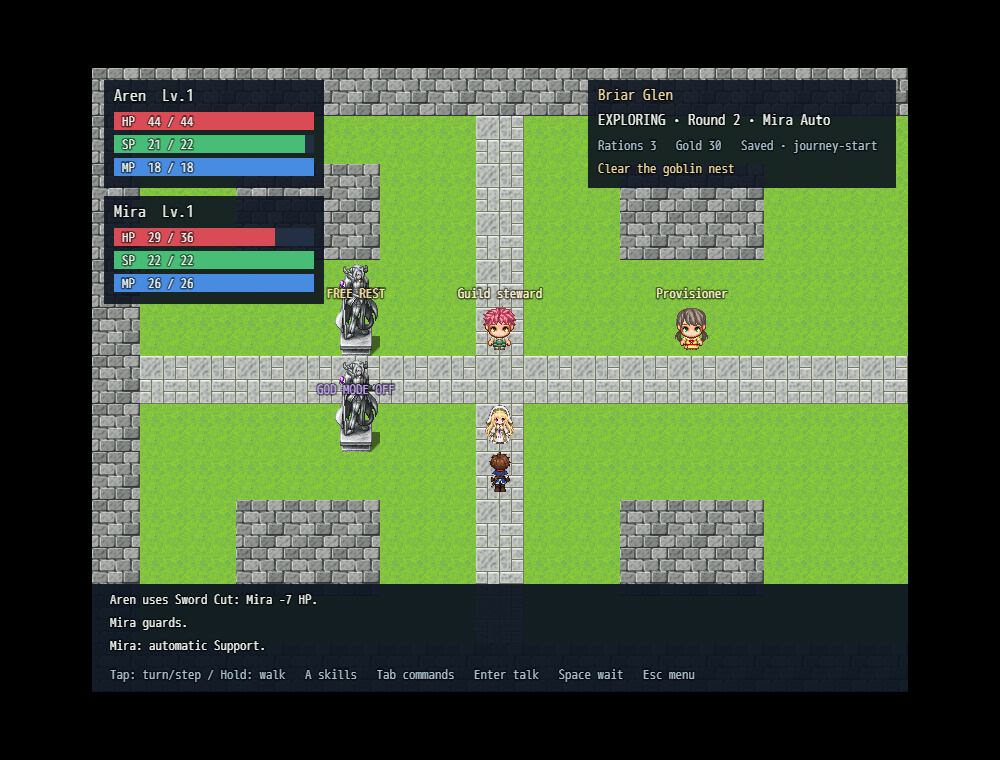
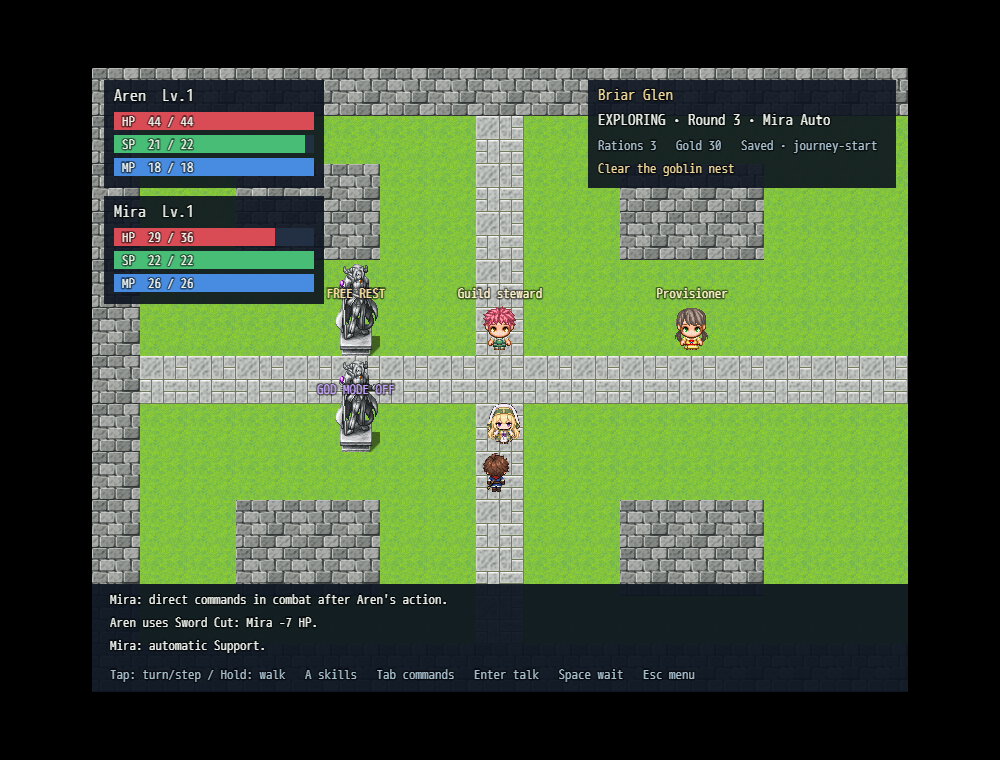
Restrict companion commands to combat and redraw walking sprites

Changed region(s): [[0.093, 0.7868, 0.372, 0.8474], [0.465, 0.5145, 0.527, 0.6658], [0.403, 0.7868, 0.434, 0.8171]]

diff --git a/src/js/plugins/FirstJourney.js b/src/js/plugins/FirstJourney.js
@@ -17,7 +17,7 @@
     DataManager.setupNewGame = function() {
         existingSetup.call(this);
         $gameSystem._firstJourney = R.create();
-        $gamePlayer.setImage("$ArenJourney-v1", 0);
+        $gamePlayer.setImage("$ArenJourney-v2", 0);
         $gamePlayer.followers().hide();
     };
     // Use a dedicated save namespace; existing Project1 saves are untouched.
@@ -150,7 +150,7 @@
         if (this._journeyPendingAction) {
             const arenAction = this._journeyPendingAction; this._journeyPendingAction = null;
             R.submit(s, arenAction, action, true);
-        } else if (s.direct && s.mira.hp > 0) {
+        } else if (s.combat && s.direct && s.mira.hp > 0) {
             this._journeyPendingAction = action; this.miraCommandMenu();
         } else R.submit(s, action, null, true);
         this.syncJourney(); return true;
@@ -205,7 +205,7 @@
             { label: "Skill journal [K]", run: () => this.journal() },
             { label: "Potions [I]", run: () => this.items() },
             { label: "Mira behavior [C]", run: () => this.behavior() },
-            { label: "Mira: " + (state().direct ? "Direct" : "Auto") + " [Tab]", run: () => { this.closeJourneyChoices(); this.toggleMiraCommands(); } },
+            { label: "Mira combat: " + (state().direct ? "Direct" : "Auto") + " [Tab]", run: () => { this.closeJourneyChoices(); this.toggleMiraCommands(); } },
             { label: "Save", run: () => { this.closeJourneyChoices(); save("manual", 1); } },
             { label: "Load", run: () => { this.closeJourneyChoices(); SceneManager.push(Scene_Load); } },
             { label: "Controls and rules", run: () => { this.closeJourneyChoices(); this.say([
@@ -219,7 +219,7 @@
     };
     Scene_Map.prototype.toggleMiraCommands = function() {
         state().direct = !state().direct;
-        R.log(state(), "Mira: " + (state().direct ? "direct commands after Aren's action." : "automatic " + state().mode + "."));
+        R.log(state(), "Mira: " + (state().direct ? "direct commands in combat after Aren's action." : "automatic " + state().mode + "."));
     };
     Scene_Map.prototype.interactJourney = function() {
         const s = state(), result = R.interact(s);
@@ -258,7 +258,7 @@
             b.fillRect(Graphics.width - 320, 12, 308, 108, "rgba(12,20,32,0.9)");
             b.fontSize = 15;
             text(R.maps[s.mapId].name, Graphics.width - 310, 15, 290, "#f0d79b");
-            text((s.round ? "RESOLVING" : s.combat ? "COMBAT" : "EXPLORING") + " • Round " + s.turn + " • Mira " + (s.direct ? "Direct" : "Auto"), Graphics.width - 310, 40, 290);
+            text((s.round ? "RESOLVING" : s.combat ? "COMBAT" : "EXPLORING") + " • Round " + s.turn + " • Mira " + (s.combat && s.direct ? "Direct" : "Auto"), Graphics.width - 310, 40, 290);
             b.fontSize = 13;
             text("Rations " + s.inventory.ration + "   Gold " + s.gold + "   " + saveStatus, Graphics.width - 310, 65, 290, "#a9c1cf");
             text(s.quest === "return" ? "Return to the guild" : s.quest === "complete" ? "First test complete" : "Clear the goblin nest", Graphics.width - 310, 88, 290, "#f0d79b");

diff --git a/Addons/FirstJourneyArt/Overworld-sprites-v2.md b/Addons/FirstJourneyArt/Overworld-sprites-v2.md
@@ -1,0 +1,17 @@
+# Overworld sprites v2
+
+Generated with the built-in imagegen tool on 2026-09-19. New artwork based on project portraits; People1.png (RPG Maker MZ RTP, subject to the project's MZ license) provided proportions/style reference. These assets are for this RPG Maker project. No shared assets/ originals were modified. Earlier v1 sheets remain preserved.
+
+References: `src/img/pictures/ArenPortrait-v4.png`, `src/img/pictures/MiraPortrait.png`, `src/img/characters/People1.png`.
+
+Generated sources: `Aren-walk-source-v2.png`, `Mira-walk-source-v2.png` in this directory. Original generation files: `exec-e515e53c-98b4-4bc3-befa-45d128a8faa4.png` and `exec-fa4aa023-5131-4073-972c-f7eeabc381f4.png` under the local Codex generated_images task directory.
+
+Runtime: `src/img/characters/$ArenJourney-v2.png` and `$MiraJourney-v2.png`. Mechanical processing with `node tools/pack-first-journey-sprites.cjs v2`: crop transparent frame padding, uniformly nearest-neighbor resize, align feet in 48px cells; preserve alpha. Atlas is 144×192, three walking frames by four directions (down, left, right, up). Head occupies approximately 60% of the character height, with a compact body matching the map NPC proportions.
+
+## Aren prompt
+
+Use case: stylized-concept. Create a NEW RPG Maker MZ walking sprite atlas of Aren. Image 1 is character identity/outfit reference ONLY; image 2 is the exact intended pixel-art proportions/style reference. Match the People1 villagers: huge round head about 60% of total figure height, tiny squat body, short stubby limbs, about 1.7 heads tall. Do NOT use realistically proportioned portrait anatomy. Brown tousled hair, blue tunic, red scarf, leather belt, brown boots, sheathed longsword at his anatomical left hip behind his body. Crisp simple pixel art readable at 48x48 pixels with limited shaded colors, no fine painterly detail. EXACTLY 12 complete figures, arranged 3 columns and 4 evenly spaced rows: row1 faces DOWN toward viewer, row2 faces LEFT, row3 faces RIGHT, row4 faces UP away from viewer. Each row columns walking left foot, idle, walking right foot. Consistent large head and short body across all frames. Entire figure fits each cell with empty margins. Transparent RGBA background, no shadow, floor, grid, labels, or extra figures. Portrait format 3:4 atlas.
+
+## Mira prompt
+
+Use case: stylized-concept. Create a NEW RPG Maker MZ walking sprite atlas of Mira. Image 1 is character identity/outfit reference ONLY; image 2 is the intended pixel-art proportions/style reference. Match People1 villagers: huge round head about 60% of total figure height, tiny squat body, short stubby limbs, about 1.7 heads tall. Do NOT use realistically proportioned portrait anatomy. Blonde hair, purple eyes, white priestess veil with sage green/gold trim, white and sage green robes, gold stole, purple bow, gold star pendant, tiny brown shoes. Crisp simple pixel art readable at 48x48 pixels with limited shaded colors, no fine painterly detail. EXACTLY 12 complete figures arranged 3 columns and 4 evenly spaced rows: row1 faces DOWN toward viewer, row2 faces LEFT, row3 faces RIGHT, row4 faces UP away from viewer. Each row columns walking left foot, idle, walking right foot. Consistent large head and short body across all frames. Entire figure fits each cell with empty margins. Transparent RGBA background, no shadow, floor, grid, labels, or extra figures. Portrait format 3:4 atlas.

diff --git a/src/FIRST_JOURNEY.md b/src/FIRST_JOURNEY.md
@@ -51,9 +51,12 @@ floating damage/healing numbers for both party and enemy actions.
 Walls and interactable objects block movement, but never block turning. Mira
 steps into Aren's previous tile when he walks; her move uses her action for that
 turn. She acts according to her behavior setting when Aren attacks or waits.
+Outside combat, only Aren receives player commands; Mira acts automatically.
+Tab retains the direct-command preference for future combat encounters.
+
 Guard still holds position during combat. Companions are passable: walking into
 one swaps them into the tile you vacated. Turn to face Mira and press Enter
-for contextual conversation. Aren always leads movement. In direct mode,
+for contextual conversation. Aren always leads movement. In combat with direct mode enabled,
 choose Aren's action first, then Mira's skill, guard, follow or wait action.
 Neither action executes until both are chosen. Canceling Mira's command menu
 cancels the whole round without spending resources or advancing time.
@@ -89,7 +92,7 @@ Mira's **Support** mode heals allies below 65% HP, then attacks while retaining
 some MP. **Attack** prioritizes Light Lance. **Guard** holds position, heals
 when possible, and reduces the next incoming hit. **Follow** spends no
 resources. **Conserve** follows and heals but does not cast offensive magic.
-In direct mode, Aren remains the leader and Mira receives a command after each
+In combat with direct mode enabled, Aren remains the leader and Mira receives a command after each
 Aren action. If Aren falls, choose Wait to let Mira act; command her to revive
 him when available. If Mira falls, her command step is skipped.
 

diff --git a/README.md b/README.md
@@ -15,10 +15,14 @@ Open **`TestProject/` as the workspace root**. The playable MZ project is in
 3. Speak to the guild steward in Briar Glen, enter the shrine through the eastern
    wall opening, defeat the nest leader, and return to the guild.
 
-Arrow keys turn/walk; **A** opens skills; **Enter** interacts; **Space** waits;
+Arrow keys turn/walk; **A** opens skills; **Enter** interacts; **Space** waits.
+
+Outside combat, only Aren receives player commands; Mira acts automatically.
+Tab retains the direct-command preference for future combat encounters.
+
 **Tab** toggles Mira's automatic/direct commands; **Esc** opens the field menu.
-Direct mode collects Aren's action and then Mira's before resolving the round
-in Speed order during combat. Exploration resolves immediately. Combat opens
+In combat, direct mode collects Aren's action and then Mira's before resolving the round
+in Speed order. Exploration resolves immediately. Combat opens
 Move / Skill / Guard / View Turn Order commands and a face-based initiative
 timeline; selecting a timeline actor highlights their map location. Directional
 skills can be rotated with arrows during targeting. Legacy-save migration is
@@ -34,7 +38,7 @@ not supported.
   text and clarification questions, with credentials redacted.
 - [Agent instructions](AGENTS.md): development, asset, logging, and Git policy.
 - [Art sources](Addons/FirstJourneyArt/ART_SOURCES.md) and
-  [walking-sprite provenance](Addons/FirstJourneyArt/Overworld-sprites-v1.md).
+  [walking-sprite provenance](Addons/FirstJourneyArt/Overworld-sprites-v2.md).
 
 ## Repository layout
 

diff --git a/docs/GAME_DESIGN.md b/docs/GAME_DESIGN.md
@@ -205,9 +205,12 @@ combat rewards. Any future reputation or other penalty is not implemented.
 
 ## Sequential turns, Speed, and companion commands
 
+Outside combat, only Aren receives player commands; Mira acts automatically.
+Tab retains the direct-command preference for future combat encounters.
+
 Aren always leads exploration. Mira acts automatically by default. **Tab** now
 toggles direct commands for Mira; it no longer swaps the movement leader.
-In direct mode the player chooses Aren's action, then Mira's skill, guard,
+In combat with direct mode enabled the player chooses Aren's action, then Mira's skill, guard,
 follow, or wait action. Both choices are collected before execution. Canceling
 the companion command menu abandons the round without advancing time or spending
 resources. If Mira is down, her command step is skipped.
@@ -273,7 +276,7 @@ waist. Mira has blonde hair, purple eyes, white/green priestess clothes, gold
 trim, and relaxed overlapping hands in her portrait. Her requested visual
 reference was Elise Katharina von Hohenheim from *Hachi-nan tte, Sore wa Nai
 deshou!*. The current overworld walking sprites were generated to match these
-project portraits. Source images and prompts are recorded in the art manifest.
+project portraits, using large heads and compact bodies to match map NPCs. Source images and prompts are recorded in the art manifest.
 
 ## Saves, defeat, and testing aids
 

diff --git a/Addons/FirstJourneyArt/ART_SOURCES.md b/Addons/FirstJourneyArt/ART_SOURCES.md
@@ -42,3 +42,5 @@ The combat timeline crops the existing ArenPortrait-v4 and MiraPortrait images
 for party faces and uses face index 1 of the existing `src/img/faces/Monster.png`
 for goblins. Rendering crops only; source images are unchanged. The Monster
 face retains its original RPG Maker asset license.
+
+The current v2 large-head walking sprites, reference inputs, and full prompts are documented in [Overworld-sprites-v2.md](Overworld-sprites-v2.md). Earlier sheets are retained.
